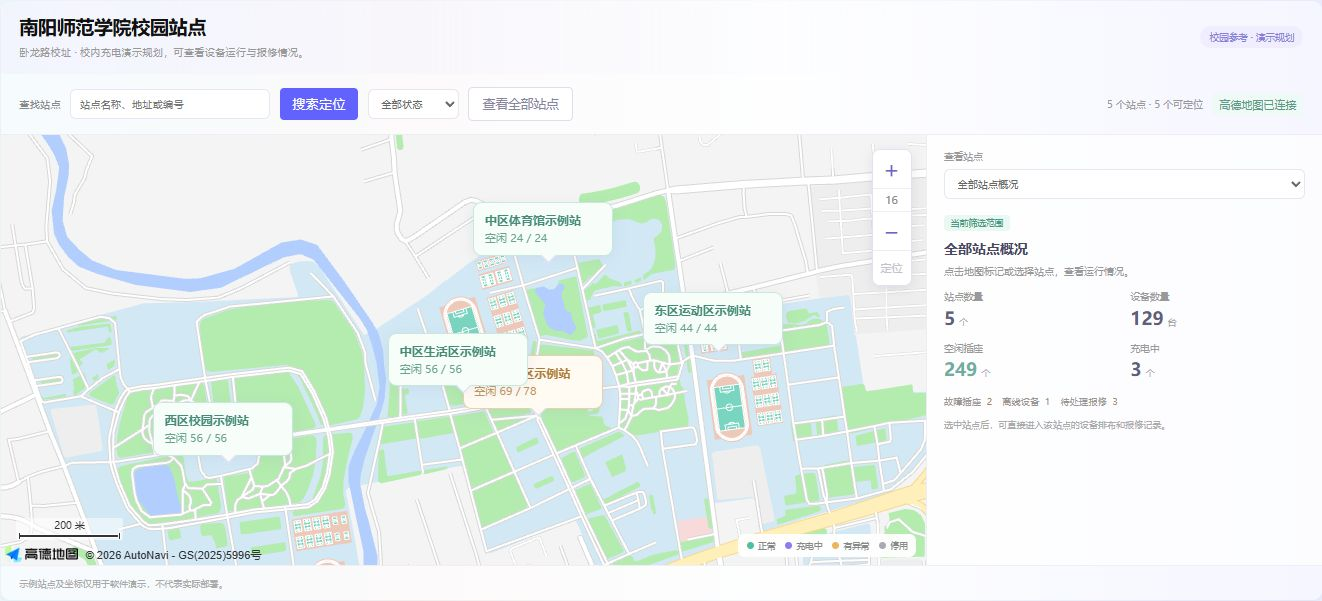
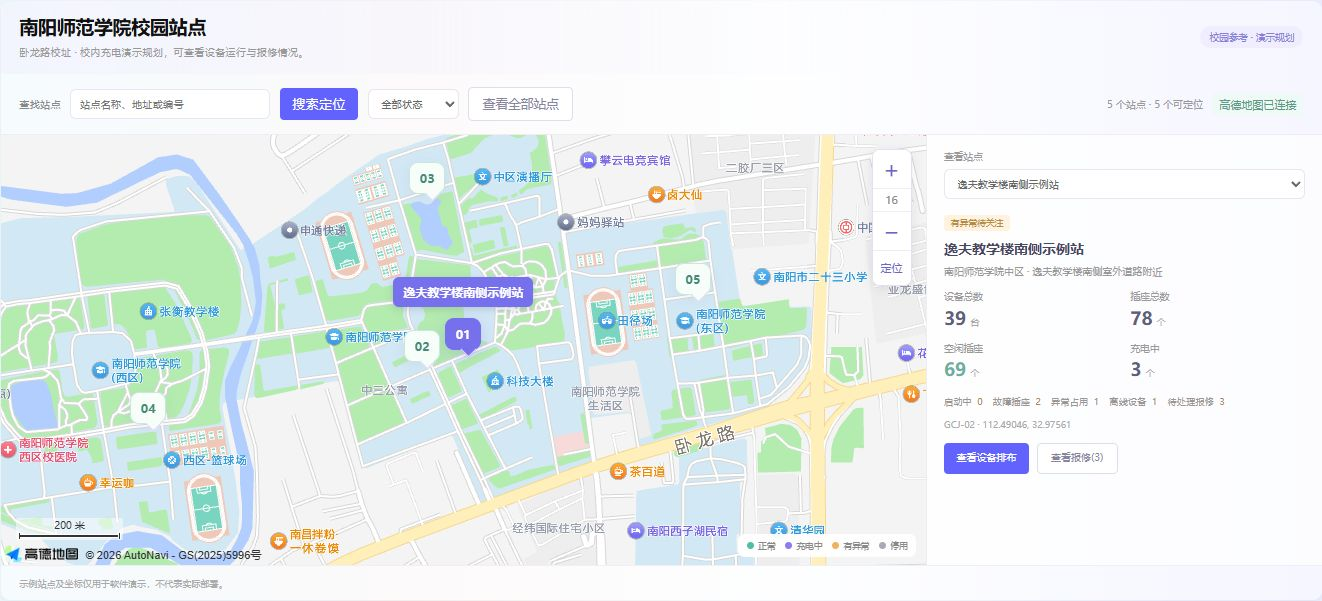
fix: align campus stations with building-side roads

diff --git a/src/domain/campusLocations.js b/src/domain/campusLocations.js
@@ -1,23 +1,210 @@
-// GCJ-02 campus demonstration planning, not installed charging facilities.
-// Anchor POIs are from the same AMap provider used by DashboardStationMap:
-// https://www.amap.com/place/B017904HJ3 (campus gym)
-// https://www.amap.com/place/B017900L0H (west campus)
-// https://www.amap.com/place/B0HRVXFSZ1 (east-campus tennis courts)
-// The two central-campus planning points are approximate, visually reviewed
-// within campus on the provider map; do not claim a surveyed parking location.
+// Official GIS supplies building names; AMap supplies the real geographic basemap.
+// Picked outdoor demonstration positions are not surveyed installed facilities.
 export const CAMPUS_DEMO_LOCATIONS=[
- {id:'ST01',name:'中区教学区示例站',address:'南阳师范学院中区 · 教学区演示规划点',lat:32.9761,lng:112.4893},
- {id:'ST02',name:'中区生活区示例站',address:'南阳师范学院中区 · 学生生活区演示规划点',lat:32.9765,lng:112.4877},
- {id:'ST03',name:'中区体育馆示例站',address:'南阳师范学院中区 · 体育馆地标参考点',lat:32.978854,lng:112.489532},
- {id:'ST04',name:'西区校园示例站',address:'南阳师范学院西区 · 校园地标参考点',lat:32.975255,lng:112.482660},
- {id:'ST05',name:'东区运动区示例站',address:'南阳师范学院东区 · 网球场地标参考点',lat:32.977236,lng:112.493175}
-].map(s=>({...s,scene:'校园',coordinateType:'GCJ02',campusLocationRevision:1,
- note:'南阳师范学院校内演示规划点；GCJ-02 高德坐标。参考校园地标，不代表实际充电设施或实测安装位置。'}))
+  {
+    "id": "ST01",
+    "name": "逸夫教学楼南侧示例站",
+    "address": "南阳师范学院中区 · 逸夫教学楼南侧室外道路附近",
+    "lat": 32.975612,
+    "lng": 112.490464,
+    "landmark": {
+      "name": "逸夫教学楼",
+      "source": "https://gis.nynu.edu.cn/#/",
+      "amapName": "南阳师范学院逸夫教学楼",
+      "amapLatitude": 32.976221,
+      "amapLongitude": 112.489705,
+      "checkedAt": "2026-11-09",
+      "selection": "高德底图楼栋周边室外道路目视拾取；非实测设施"
+    },
+    "scene": "校园",
+    "coordinateType": "GCJ02",
+    "campusLocationRevision": 3,
+    "note": "参考南阳师范学院官方校园GIS核对楼栋及别名；高德GCJ-02底图目视拾取楼旁室外道路作为演示规划点，非实测充电设施。"
+  },
+  {
+    "id": "ST02",
+    "name": "中区四公寓东侧示例站",
+    "address": "南阳师范学院中区 · 第四学生公寓东侧室外道路附近",
+    "lat": 32.975396,
+    "lng": 112.489584,
+    "landmark": {
+      "name": "第四学生公寓（中区）",
+      "source": "https://gis.nynu.edu.cn/#/",
+      "amapName": "南阳师范学院-中区第四公寓",
+      "amapLatitude": 32.973029,
+      "amapLongitude": 112.490904,
+      "checkedAt": "2026-11-09",
+      "selection": "高德底图楼栋周边室外道路目视拾取；非实测设施"
+    },
+    "scene": "校园",
+    "coordinateType": "GCJ02",
+    "campusLocationRevision": 3,
+    "note": "参考南阳师范学院官方校园GIS核对楼栋及别名；高德GCJ-02底图目视拾取楼旁室外道路作为演示规划点，非实测充电设施。"
+  },
+  {
+    "id": "ST03",
+    "name": "体育馆南侧示例站",
+    "address": "南阳师范学院中区 · 体育馆南侧室外道路附近",
+    "lat": 32.978431,
+    "lng": 112.489693,
+    "landmark": {
+      "name": "体育馆",
+      "source": "https://gis.nynu.edu.cn/#/",
+      "amapName": "南阳师范学院体育馆",
+      "amapLatitude": 32.978854,
+      "amapLongitude": 112.489532,
+      "checkedAt": "2026-11-09",
+      "selection": "高德底图楼栋周边室外道路目视拾取；非实测设施"
+    },
+    "scene": "校园",
+    "coordinateType": "GCJ02",
+    "campusLocationRevision": 3,
+    "note": "参考南阳师范学院官方校园GIS核对楼栋及别名；高德GCJ-02底图目视拾取楼旁室外道路作为演示规划点，非实测充电设施。"
+  },
+  {
+    "id": "ST04",
+    "name": "西区八公寓北侧示例站",
+    "address": "南阳师范学院西区 · 第八学生公寓北侧室外道路附近",
+    "lat": 32.974283,
+    "lng": 112.483707,
+    "landmark": {
+      "name": "第八学生公寓（西区）",
+      "source": "https://gis.nynu.edu.cn/#/",
+      "amapName": "南阳师范学院西区学生公寓8幢",
+      "amapLatitude": 32.973761,
+      "amapLongitude": 112.483235,
+      "checkedAt": "2026-11-09",
+      "selection": "高德底图楼栋周边室外道路目视拾取；非实测设施"
+    },
+    "scene": "校园",
+    "coordinateType": "GCJ02",
+    "campusLocationRevision": 3,
+    "note": "参考南阳师范学院官方校园GIS核对楼栋及别名；高德GCJ-02底图目视拾取楼旁室外道路作为演示规划点，非实测充电设施。"
+  },
+  {
+    "id": "ST05",
+    "name": "东升园餐厅南侧示例站",
+    "address": "南阳师范学院东区 · 东升园餐厅（东区学生餐厅/教工餐厅）南侧道路附近",
+    "lat": 32.976604,
+    "lng": 112.495396,
+    "landmark": {
+      "name": "东区学生餐厅",
+      "source": "https://gis.nynu.edu.cn/#/",
+      "amapName": "南阳师范学院东区教工餐厅",
+      "amapLatitude": 32.976775,
+      "amapLongitude": 112.495375,
+      "checkedAt": "2026-11-09",
+      "selection": "高德底图楼栋周边室外道路目视拾取；非实测设施"
+    },
+    "scene": "校园",
+    "coordinateType": "GCJ02",
+    "campusLocationRevision": 3,
+    "note": "参考南阳师范学院官方校园GIS核对楼栋及别名；高德GCJ-02底图目视拾取楼旁室外道路作为演示规划点，非实测充电设施。"
+  }
+]
+
+export const PREVIOUS_CAMPUS_LOCATIONS=[
+  {
+    "id": "ST01",
+    "name": "中区教学区示例站",
+    "address": "南阳师范学院中区 · 教学区演示规划点",
+    "lat": 32.9761,
+    "lng": 112.4893
+  },
+  {
+    "id": "ST02",
+    "name": "中区生活区示例站",
+    "address": "南阳师范学院中区 · 学生生活区演示规划点",
+    "lat": 32.9765,
+    "lng": 112.4877
+  },
+  {
+    "id": "ST03",
+    "name": "中区体育馆示例站",
+    "address": "南阳师范学院中区 · 体育馆地标参考点",
+    "lat": 32.978854,
+    "lng": 112.489532
+  },
+  {
+    "id": "ST04",
+    "name": "西区校园示例站",
+    "address": "南阳师范学院西区 · 校园地标参考点",
+    "lat": 32.975255,
+    "lng": 112.48266
+  },
+  {
+    "id": "ST05",
+    "name": "东区运动区示例站",
+    "address": "南阳师范学院东区 · 网球场地标参考点",
+    "lat": 32.977236,
+    "lng": 112.493175
+  },
+  {
+    "id": "ST01",
+    "name": "逸夫教学楼南侧示例站",
+    "address": "南阳师范学院中区 · 逸夫教学楼南侧室外道路附近",
+    "lat": 32.97585,
+    "lng": 112.489705
+  },
+  {
+    "id": "ST02",
+    "name": "中区四公寓北侧示例站",
+    "address": "南阳师范学院中区 · 第四学生公寓北侧室外道路附近",
+    "lat": 32.97333,
+    "lng": 112.490904
+  },
+  {
+    "id": "ST03",
+    "name": "体育馆南侧示例站",
+    "address": "南阳师范学院中区 · 体育馆南侧室外道路附近",
+    "lat": 32.9784,
+    "lng": 112.489532
+  },
+  {
+    "id": "ST04",
+    "name": "西区八公寓北侧示例站",
+    "address": "南阳师范学院西区 · 第八学生公寓北侧室外道路附近",
+    "lat": 32.97405,
+    "lng": 112.483235
+  },
+  {
+    "id": "ST05",
+    "name": "东升园餐厅南侧示例站",
+    "address": "南阳师范学院东区 · 东升园餐厅（东区学生餐厅/教工餐厅）南侧道路附近",
+    "lat": 32.9764,
+    "lng": 112.495375
+  }
+]
 
 export const LEGACY_DEMO_LOCATIONS=[
- {id:'ST01',name:'教学楼东侧示例站',lat:32.9912,lng:112.5231},
- {id:'ST02',name:'食堂北侧示例站',lat:32.9931,lng:112.5252},
- {id:'ST03',name:'体育馆示例站',lat:32.9896,lng:112.5208},
- {id:'ST04',name:'园区通勤示例站',lat:32.9875,lng:112.5294},
- {id:'ST05',name:'住宅小区示例站',lat:32.9953,lng:112.5311}
+  {
+    "id": "ST01",
+    "name": "教学楼东侧示例站",
+    "lat": 32.9912,
+    "lng": 112.5231
+  },
+  {
+    "id": "ST02",
+    "name": "食堂北侧示例站",
+    "lat": 32.9931,
+    "lng": 112.5252
+  },
+  {
+    "id": "ST03",
+    "name": "体育馆示例站",
+    "lat": 32.9896,
+    "lng": 112.5208
+  },
+  {
+    "id": "ST04",
+    "name": "园区通勤示例站",
+    "lat": 32.9875,
+    "lng": 112.5294
+  },
+  {
+    "id": "ST05",
+    "name": "住宅小区示例站",
+    "lat": 32.9953,
+    "lng": 112.5311
+  }
 ]

diff --git a/src/components/DashboardStationMap.vue b/src/components/DashboardStationMap.vue
@@ -9,7 +9,7 @@ const query=ref(''),status=ref('all'),selectedId=ref(''),container=ref(null),loa
 const zoom=ref(15),searchOpen=ref(false),searchMessage=ref('')
 const mapReady=computed(()=>mode.value==='map'&&!loading.value)
 const rows=computed(()=>buildStationMapRows(props.source))
-const campusDemo=computed(()=>props.source.stations.length>0&&props.source.stations.every(s=>s.campusLocationRevision===1))
+const campusDemo=computed(()=>props.source.stations.length>0&&props.source.stations.every(s=>s.campusLocationRevision>=1))
 const visible=computed(()=>filterMapStations(rows.value,query.value,status.value))
 const located=computed(()=>visible.value.filter(s=>s.position)),diagram=computed(()=>projectMapStations(visible.value))
 const selected=computed(()=>visible.value.find(s=>s.id===selectedId.value))
@@ -60,7 +60,7 @@ function redraw(){
  if(markers.length){map.remove(markers.map(m=>m.marker));for(const item of markers)item.button.onclick=null}
  markers=located.value.map(s=>{
   const button=document.createElement('button');button.type='button';button.className=`station-marker tone-${s.tone}`
-  button.setAttribute('aria-label',`选择站点 ${s.name}`)
+  button.setAttribute('aria-label',`选择站点 ${s.name}`);button.dataset.stationCode=s.id.replace(/^ST/,'')
   const name=document.createElement('strong');name.textContent=s.name
   const count=document.createElement('span');count.textContent=`空闲 ${s.free} / ${s.socketCount}`
   button.append(name,count);button.onclick=()=>{selectedId.value=s.id}
@@ -114,7 +114,7 @@ onBeforeUnmount(()=>{disposed=true;version++;destroyMap()})
     <div v-if="mode==='diagram'" class="map-diagram" aria-label="站点坐标分布示意">
      <div class="diagram-grid"/><div class="diagram-water"/><div class="diagram-road road-one"/><div class="diagram-road road-two"/>
      <span class="diagram-area">站点分布示意</span>
-     <button v-for="s in diagram" :key="s.id" type="button" :class="['station-marker',`tone-${s.tone}`,{'is-selected':s.id===selectedId}]" :style="{left:s.x+'%',top:s.y+'%'}" :aria-label="'选择站点 '+s.name" :aria-pressed="s.id===selectedId" @click="selectedId=s.id"><strong>{{s.name}}</strong><span>空闲 {{s.free}} / {{s.socketCount}}</span></button>
+     <button v-for="s in diagram" :key="s.id" type="button" :class="['station-marker',`tone-${s.tone}`,{'is-selected':s.id===selectedId}]" :style="{left:s.x+'%',top:s.y+'%'}" :data-station-code="s.id.replace(/^ST/,'')" :aria-label="'选择站点 '+s.name" :aria-pressed="s.id===selectedId" @click="selectedId=s.id"><strong>{{s.name}}</strong><span>空闲 {{s.free}} / {{s.socketCount}}</span></button>
      <small class="diagram-caption">按已保存坐标绘制 · 非地图底图</small>
     </div>
     <div v-if="loading" class="map-loading" role="status"><span/>正在加载地图…</div>
@@ -149,4 +149,13 @@ onBeforeUnmount(()=>{disposed=true;version++;destroyMap()})
 </style>
 <style scoped>
 .map-zoom-tools{position:absolute;right:14px;top:14px;z-index:8;display:flex;flex-direction:column;align-items:stretch;border:1px solid #e4e0f3;border-radius:8px;background:#fff;box-shadow:0 3px 12px #5a5a7020;overflow:hidden;width:40px}.map-zoom-tools button{background:white;border:0;color:#6d65c5;font:inherit;font-size:23px;line-height:36px;cursor:pointer}.map-zoom-tools button:hover:not(:disabled){background:#f1eeff}.map-zoom-tools button:disabled{color:#c4c1cc;cursor:default}.map-zoom-tools output{text-align:center;color:#888;font-size:11px;line-height:22px;border-top:1px solid #f0edf7;border-bottom:1px solid #f0edf7}.map-zoom-tools button.map-refocus{font-size:11px;border-top:1px solid #eeebf5;line-height:32px}.map-runtime{font-size:11px;color:#af8751;background:#fff6e8;padding:4px 7px;border-radius:5px;white-space:nowrap}.map-runtime.ready{color:#579a87;background:#eff9f5}.map-search-feedback{font-size:12px;line-height:1.6;padding:.55rem 1.4rem;background:#f7f5ff;color:#8b82bb}.map-search-results{display:grid;grid-template-columns:repeat(auto-fit,minmax(190px,1fr));gap:8px;padding:.7rem 1.4rem;border-bottom:1px solid #eeedf6;max-height:180px;overflow:auto;background:#fcfbff}.map-search-results button{display:flex;flex-direction:column;gap:5px;text-align:left;background:white;border:1px solid #e9e5f5;border-radius:7px;padding:10px;font:inherit;cursor:pointer}.map-search-results button:hover{border-color:#aaa0f0;background:#f9f7ff}.map-search-results strong{font-size:12px;font-weight:500;color:#6f65ab}.map-search-results span{font-size:11px;color:#aaa}.map-search-results small{font-size:11px;color:#8a7dce}
+</style>
+
+<style scoped>
+/* Keep each hit area on its actual coordinate. Nearby apartment and teaching
+   sites must not become unclickable beneath a neighbouring wide label. */
+.station-marker,.map-stage :deep(.station-marker){width:36px;height:32px;min-width:36px;max-width:36px;padding:0;align-items:center;justify-content:center;border-radius:9px}
+.station-marker::before,.map-stage :deep(.station-marker::before){content:attr(data-station-code);font-size:12px;font-weight:700}
+.station-marker strong,.station-marker span,.map-stage :deep(.station-marker strong),.map-stage :deep(.station-marker span){display:none;pointer-events:none}
+.station-marker.is-selected strong,.map-stage :deep(.station-marker.is-selected strong){display:block;position:absolute;bottom:42px;left:50%;transform:translateX(-50%);width:max-content;max-width:190px;padding:7px 10px;border-radius:6px;background:#7770ed;color:#fff;box-shadow:0 2px 8px #35305530}
 </style>

diff --git a/tests/topbar.test.js b/tests/topbar.test.js
@@ -5,7 +5,7 @@ import { createService } from '../src/domain/service.js'
 import { globalSearch } from '../src/domain/globalSearch.js'
 import { notificationSignals,mergeNotificationLedger } from '../src/domain/notificationModel.js'
 test('全局搜索可以定位设备及 A/B 独立插座',()=>{const db=createSeed(),results=globalSearch(db,'EB-0001');assert.ok(results.some(r=>r.kind==='device'&&r.target.deviceId==='D1'));assert.ok(results.some(r=>r.kind==='socket'&&r.target.socketId==='D1P1'));assert.ok(globalSearch(db,'EB-0001-A').some(r=>r.target.socketId==='D1P1'))})
-test('站点、订单、报修和菜单有独立搜索入口',()=>{const db=createSeed();assert.ok(globalSearch(db,'教学区').some(r=>r.kind==='station'&&r.target.stationId==='ST01'));assert.ok(globalSearch(db,db.orders[0].number).some(r=>r.target.orderId===db.orders[0].id));assert.ok(globalSearch(db,'过流').some(r=>r.kind==='report'&&r.target.reportId==='R1'));assert.ok(globalSearch(db,'收费').some(r=>r.kind==='menu'&&r.target.page==='rates'))})
+test('站点、订单、报修和菜单有独立搜索入口',()=>{const db=createSeed();assert.ok(globalSearch(db,'逸夫教学楼').some(r=>r.kind==='station'&&r.target.stationId==='ST01'));assert.ok(globalSearch(db,db.orders[0].number).some(r=>r.target.orderId===db.orders[0].id));assert.ok(globalSearch(db,'过流').some(r=>r.kind==='report'&&r.target.reportId==='R1'));assert.ok(globalSearch(db,'收费').some(r=>r.kind==='menu'&&r.target.page==='rates'))})
 test('搜索空状态与每类结果上限明确，不返回错误关联',()=>{const db=createSeed();assert.equal(globalSearch(db,'不存在的关键词').length,0);assert.ok(globalSearch(db,'').every(r=>r.kind==='menu'));for(const kind of ['menu','station','device','socket','order','report'])assert.ok(globalSearch(db,'EB').filter(r=>r.kind===kind).length<=8)})
 test('通知包含报修、离线、插座故障和异常订单，并可去重',()=>{const db=createSeed(),facts=notificationSignals(db),first=mergeNotificationLedger([],facts,'2026-11-09T00:00:00Z');assert.ok(['report','device','socket','order'].every(kind=>first.some(e=>e.kind===kind)));assert.equal(mergeNotificationLedger(first,facts).length,first.length);assert.ok(first.every(e=>e.key.length<=220))})
 test('已恢复的告警仍留在通知历史，重复离线能形成新的事件',()=>{const db=createSeed(),api=createService(db);let ledger=mergeNotificationLedger([],notificationSignals(db));const original=ledger.find(n=>n.kind==='device'&&n.target.deviceId==='D11');api.setDeviceOnline('D11',true);ledger=mergeNotificationLedger(ledger,notificationSignals(db));assert.ok(ledger.some(n=>n.key===original.key));api.setDeviceOnline('D11',false);ledger=mergeNotificationLedger(ledger,notificationSignals(db));assert.equal(ledger.filter(n=>n.kind==='device'&&n.target.deviceId==='D11').length,2)})

diff --git a/tests/precise-campus-sites.test.js b/tests/precise-campus-sites.test.js
@@ -1,0 +1,26 @@
+import test from 'node:test'
+import assert from 'node:assert/strict'
+import {CAMPUS_DEMO_LOCATIONS} from '../src/domain/campusLocations.js'
+
+test('all five campus sites identify a specific building and public source instead of campus centres',()=>{
+ const names=['逸夫教学楼','第四学生公寓（中区）','体育馆','第八学生公寓（西区）','东区学生餐厅']
+ assert.deepEqual(CAMPUS_DEMO_LOCATIONS.map(s=>s.landmark?.name),names)
+ for(const site of CAMPUS_DEMO_LOCATIONS){
+  assert.equal(site.landmark.source,'https://gis.nynu.edu.cn/#/')
+  assert.equal(site.coordinateType,'GCJ02')
+  assert.equal(site.campusLocationRevision,3)
+  assert.match(site.address,/附近|侧/)
+  assert.match(site.note,/规划|演示/)
+ }
+})
+
+import {createSeed} from '../src/domain/seed.js'
+import {migrateCampusLocations} from '../src/domain/migration.js'
+import {PREVIOUS_CAMPUS_LOCATIONS} from '../src/domain/campusLocations.js'
+test('revision 1 migration preserves business data and custom coordinates or addresses',()=>{
+ const source=createSeed();source.stations=source.stations.map((s,i)=>({...s,...PREVIOUS_CAMPUS_LOCATIONS[i],campusLocationRevision:1}));
+ source.stations[1].address='人工校对地址';source.stations[2].lat=32.9787;
+ const result=migrateCampusLocations(source);assert.equal(result.stations[0].campusLocationRevision,3);assert.deepEqual(result.stations[1],source.stations[1]);assert.deepEqual(result.stations[2],source.stations[2]);
+ for(const key of ['devices','sockets','rows','orders','reports','rates'])assert.deepEqual(result[key],source[key]);
+ assert.deepEqual(migrateCampusLocations(result),result);
+})

diff --git a/src/domain/migration.js b/src/domain/migration.js
@@ -1,5 +1,5 @@
 import { createService } from './service.js'
-import {CAMPUS_DEMO_LOCATIONS,LEGACY_DEMO_LOCATIONS} from './campusLocations.js'
+import {CAMPUS_DEMO_LOCATIONS,LEGACY_DEMO_LOCATIONS,PREVIOUS_CAMPUS_LOCATIONS} from './campusLocations.js'
 import {DEMO_ROW_LAYOUTS,LEGACY_DEMO_ROW_LAYOUTS} from './demoLayouts.js'
 
 export function migrateDemoLayouts(source){
@@ -34,10 +34,11 @@ export function migrateDemoLayouts(source){
 // stations and manually edited coordinates intact; never reset local storage.
 export function migrateCampusLocations(source){
   const db=JSON.parse(JSON.stringify(source))
-  for(const old of LEGACY_DEMO_LOCATIONS){
+  for(const old of [...LEGACY_DEMO_LOCATIONS,...PREVIOUS_CAMPUS_LOCATIONS]){
     const station=db.stations.find(s=>s.id===old.id)
-    if(!station||station.name!==old.name||station.campusLocationRevision||
-       Number(station.lat)!==old.lat||Number(station.lng)!==old.lng)continue
+    if(!station||station.name!==old.name||Number(station.campusLocationRevision||0)>=3||
+       Number(station.lat)!==old.lat||Number(station.lng)!==old.lng||
+       (old.address&&station.address!==old.address))continue
     Object.assign(station,CAMPUS_DEMO_LOCATIONS.find(s=>s.id===old.id))
   }
   return db

diff --git a/tests/station-map.test.js b/tests/station-map.test.js
@@ -27,7 +27,7 @@ test('搜索和状态筛选可组合，缺失坐标站点仍可查询',()=>{
  const rows=stationMap.buildStationMapRows(db)
  assert.deepEqual(stationMap.filterMapStations(rows,'教学','alert').map(s=>s.id),['ST01'])
  assert.equal(stationMap.filterMapStations(rows,'不存在','all').length,0)
- assert.deepEqual(stationMap.filterMapStations(rows,'东区运动','all').map(s=>s.id),['ST05'])
+ assert.deepEqual(stationMap.filterMapStations(rows,'东升园','all').map(s=>s.id),['ST05'])
  assert.equal(rows[4].position,null)
  db.stations[1].enabled=false
  assert.deepEqual(stationMap.filterMapStations(stationMap.buildStationMapRows(db),'','disabled').map(s=>s.id),['ST02'])

diff --git a/docs/campus-building-locations.md b/docs/campus-building-locations.md
@@ -1,0 +1,17 @@
+# 校园楼栋周边演示点位
+
+2026-11-09：依据[南阳师范学院官方校园地图](https://gis.nynu.edu.cn/#/)核对楼栋及别名，再在高德实际地理底图上目视拾取楼旁道路。官方校园图示坐标不直接用于高德；中区四公寓 POI 落在校门附近，因此改按底图“4幢”及楼旁道路定位。东区学生餐厅亦称“东升园餐厅/东区教工餐厅”。
+
+位置为楼栋周边的演示规划估算，非校方已建充电设施清单，未经现场测绘；地图坐标小数精度不代表实际定位精度。
+
+| 站点 | GCJ-02 经度 | GCJ-02 纬度 | 每排设备 |
+|---|---|---|---|
+|逸夫教学楼南侧|112.490464|32.975612|12 / 15 / 12|
+|中区四公寓东侧|112.489584|32.975396|13 / 15|
+|体育馆南侧|112.489693|32.978431|12|
+|西区八公寓北侧|112.483707|32.974283|9 / 11 / 8|
+|东升园餐厅南侧|112.495396|32.976604|10 / 12|
+
+保留站点 ID、排布、设备、插座、费率、订单及报修。默认旧点位按名称、地址和坐标精确识别后迁移，人工修改不覆盖。
+
+联调小程序目录：`docs/data/campus-stations.json`。现有独立演示数据库使用 `node qa/update-campus-locations.mjs` 仅更新站点元数据，写前备份在 runtime，写后断言设备、插座、费率、订单、报修完全不变。

diff --git a/README.md b/README.md
@@ -245,3 +245,7 @@ mvn -B -f server/pom.xml test
 校园参考点位及范围修正记录见 [校园坐标说明](docs/campus-map-location-fix.md)。Vue、Vite、ECharts、Spring Boot 等组件按各自许可证使用；参考项目的许可证不自动适用于本仓库的独立代码。
 
 当前仓库尚未指定开源许可证。需要再分发或商用时，请先联系维护者确认授权。提交问题前请阅读 [贡献说明](CONTRIBUTING.md) 和 [安全说明](SECURITY.md)。
+
+### 楼栋周边站点（2026-11-09）
+
+默认五站已细化为逸夫教学楼南侧、中区四公寓东侧、体育馆南侧、西区八公寓北侧、东升园餐厅南侧。依据官方校园 GIS 核对名称，在高德实际底图目视拾取楼旁室外道路；位置为演示规划估算，非实测设施。点位、来源与迁移说明见 [楼栋周边点位](docs/campus-building-locations.md)。
